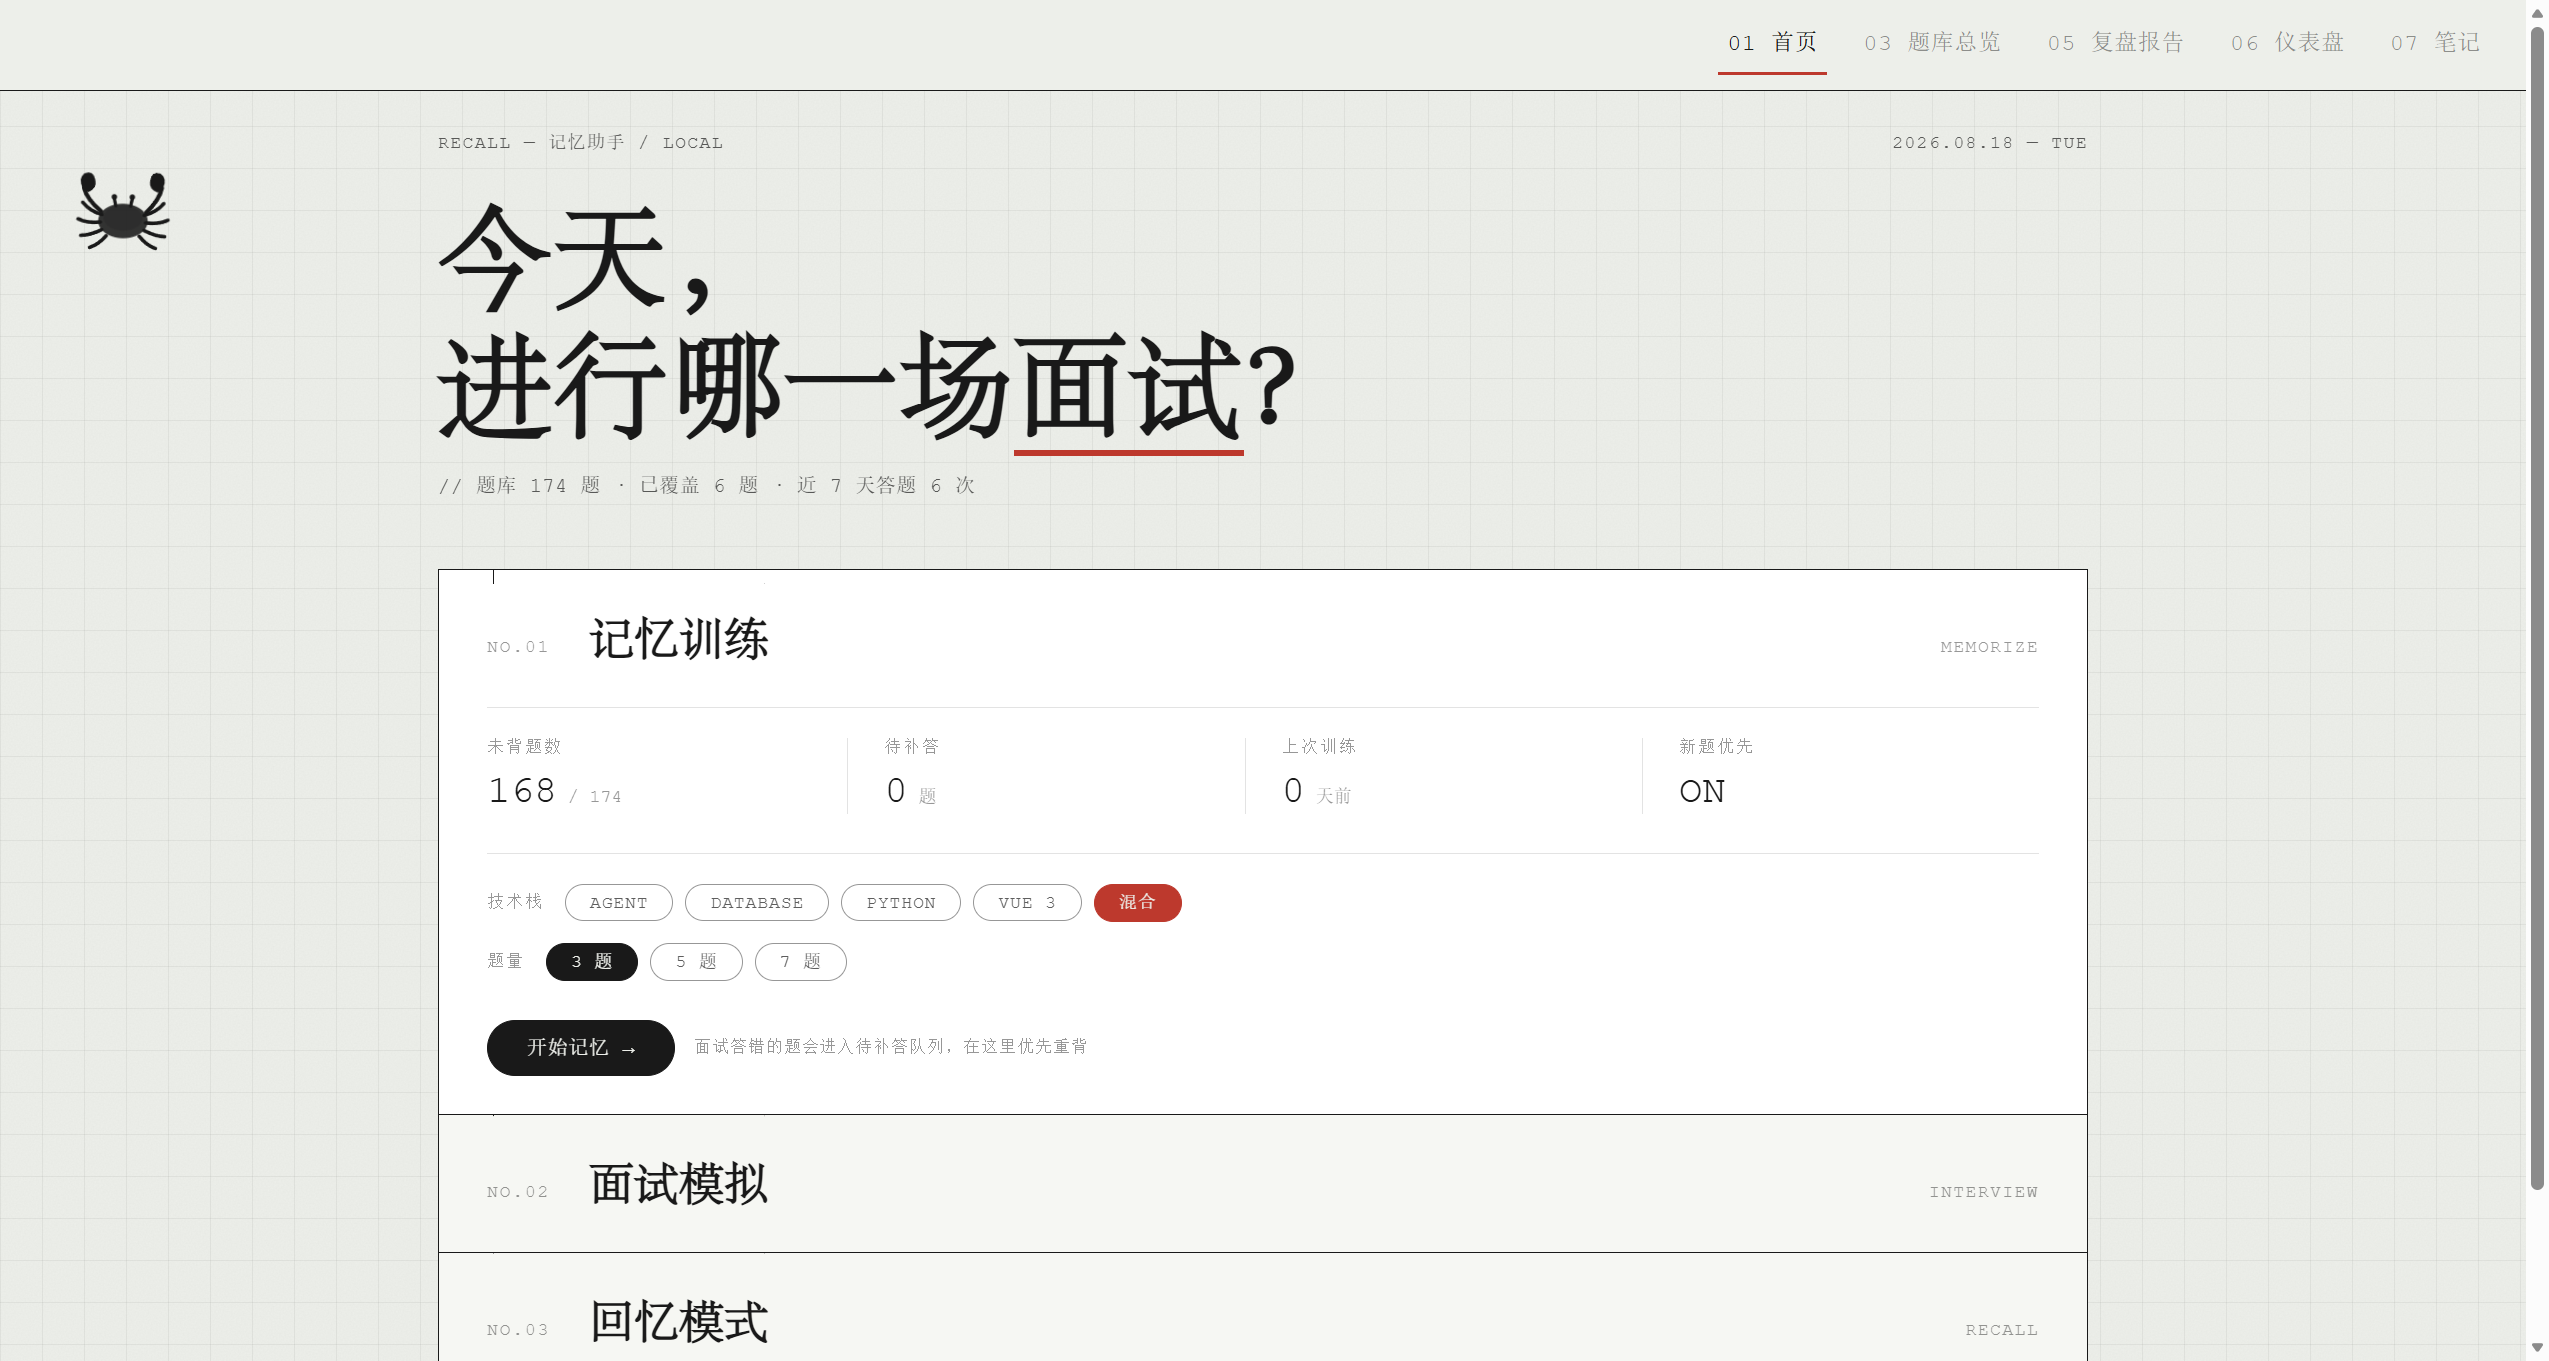
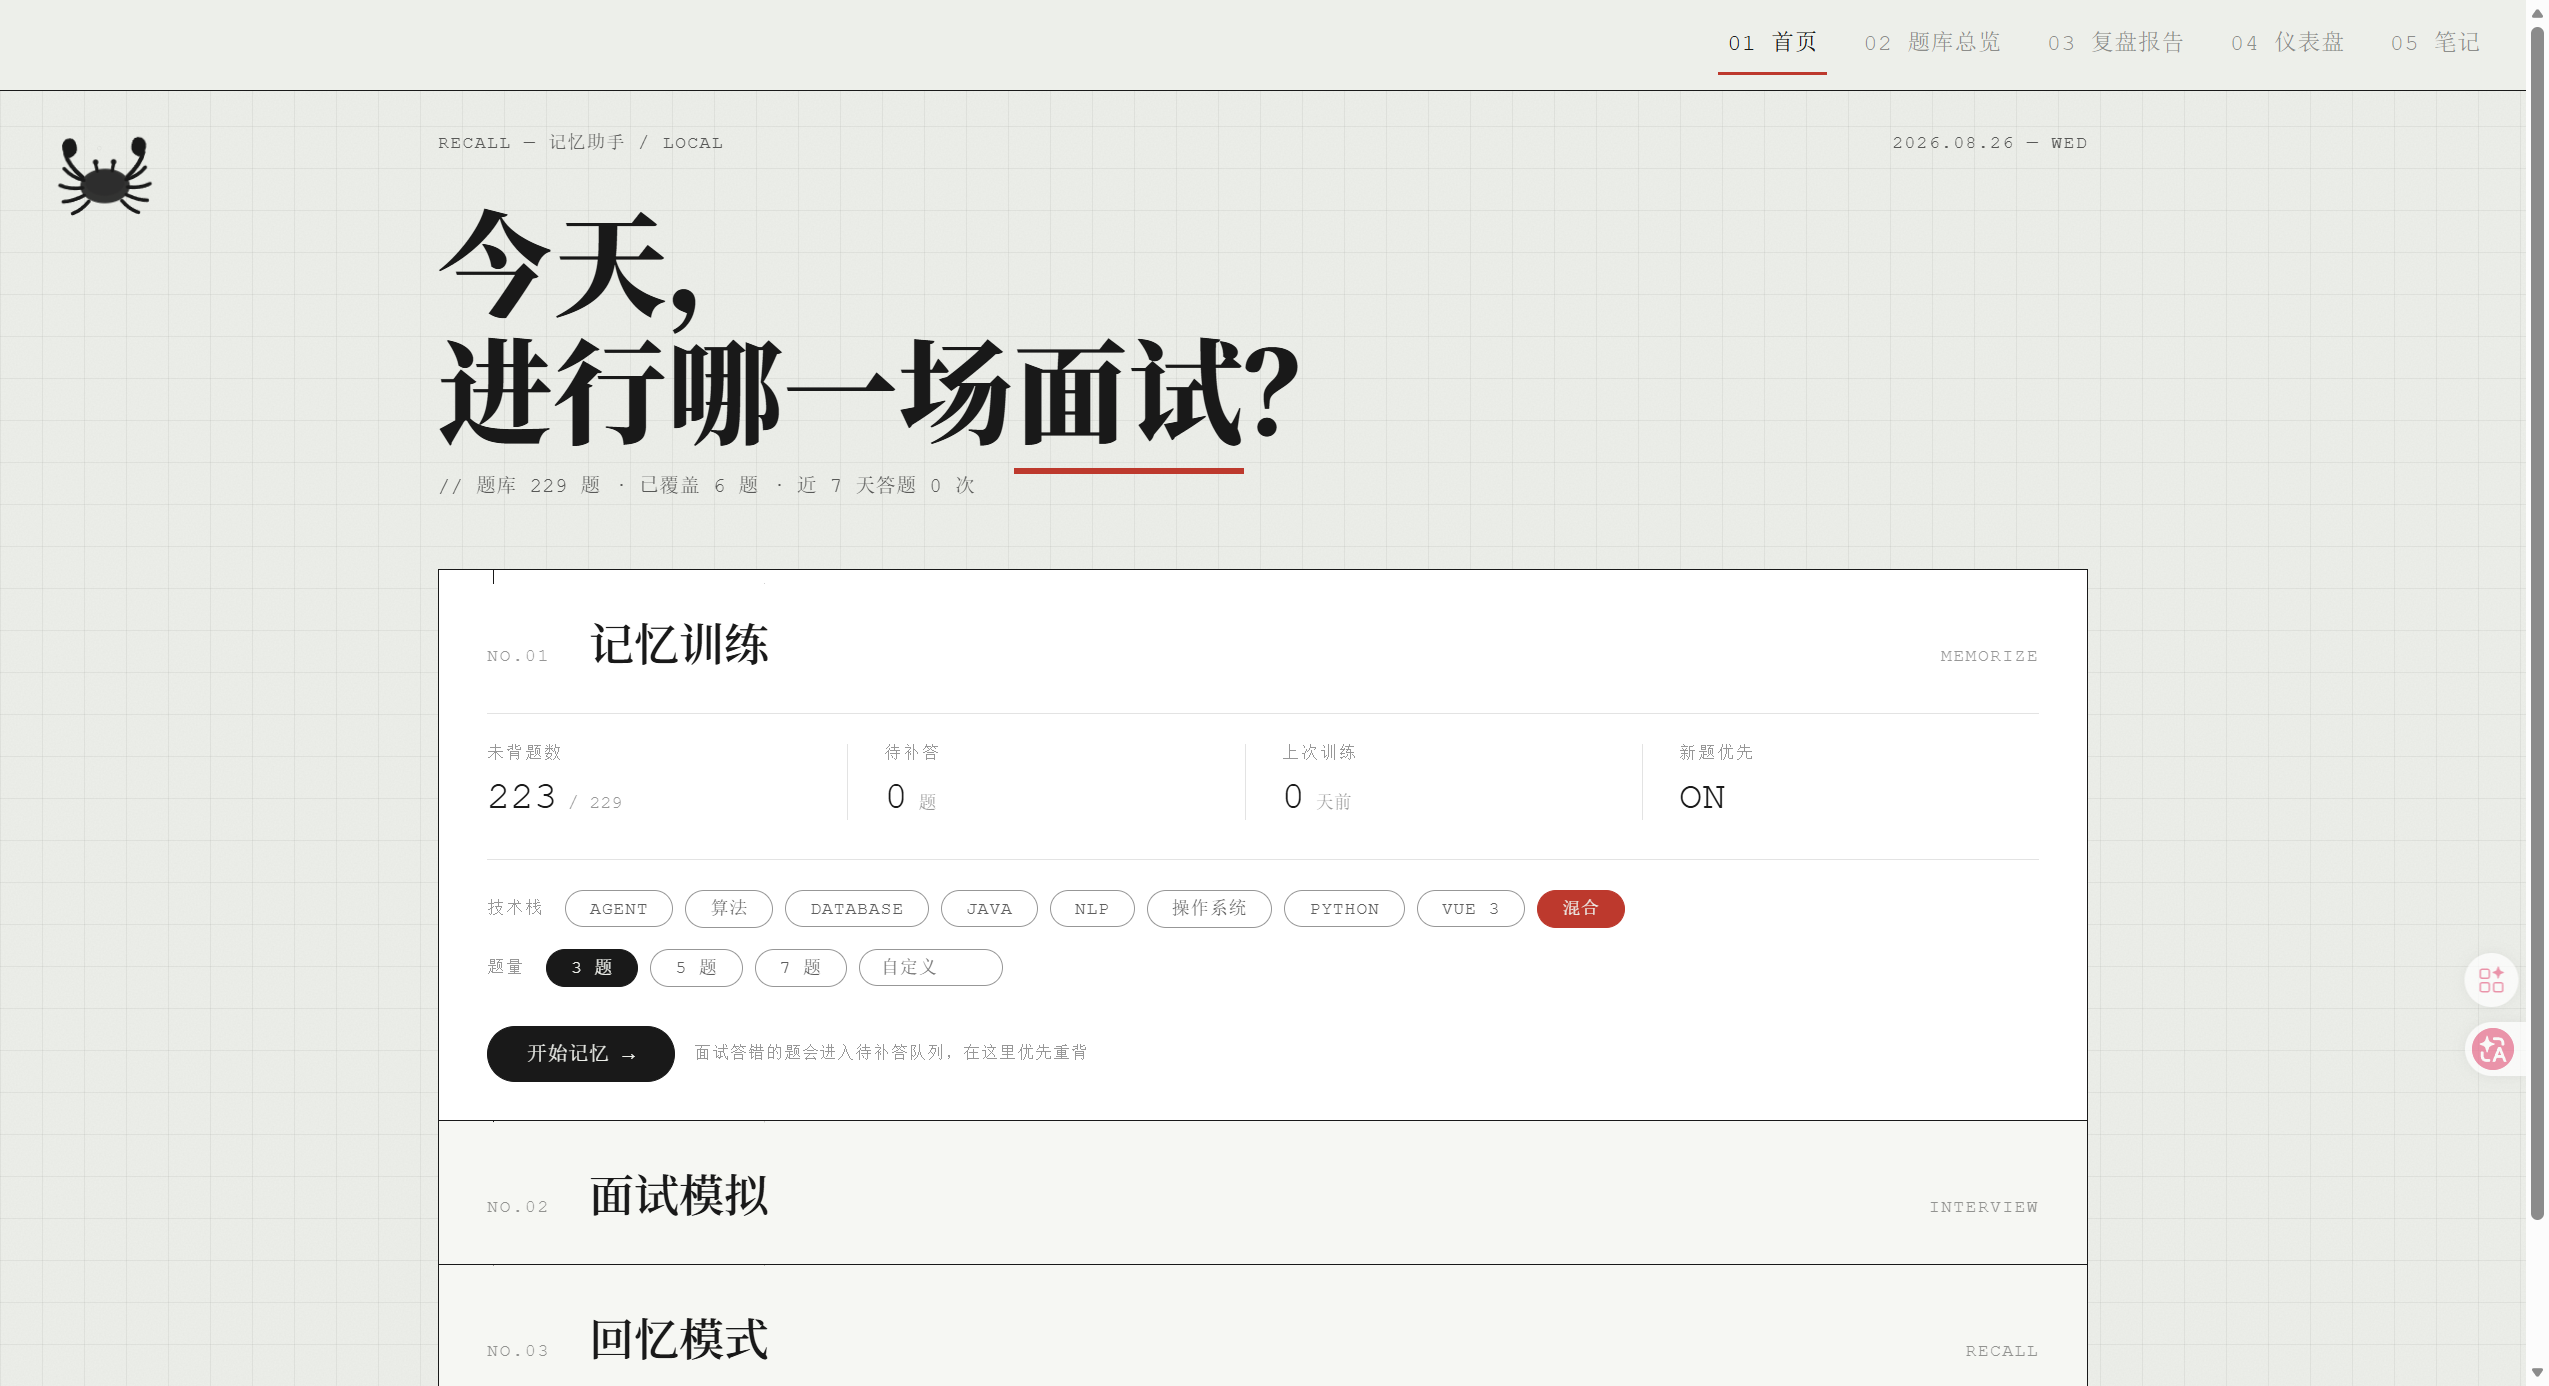
docs: 更新自述与截图；fix: 旧复盘报告记忆树按题干找回原题

diff --git a/backend/tests/test_orchestrator.py b/backend/tests/test_orchestrator.py
@@ -424,3 +424,26 @@ class TestMemoryTree:
         assert by_id[questions[0].id]["memory_tree"] == _SAMPLE_TREE
         assert by_id[questions[1].id]["memory_tree"] is None
         assert by_id[99999]["memory_tree"] is None  # 题已删除
+
+    def test_attach_memory_trees_stale_id_falls_back_to_stem(self, db, seed_questions):
+        """旧报告里的 question_id 因题库重导入而指向别的题：按题干快照找回原题，找不到则为 None。"""
+        from agents.orchestrator import attach_memory_trees
+
+        questions = seed_questions(2)
+        questions[0].memory_tree = _SAMPLE_TREE
+        db.add(questions[0])
+        db.commit()
+
+        report = {"per_question": [
+            # id 指向 questions[1]，但题干快照是 questions[0] 的：应按题干找回，挂上正确的树
+            {"question_id": questions[1].id, "stem": questions[0].stem},
+            # id 指向 questions[0]，题干也对得上：直接按 id 挂树
+            {"question_id": questions[0].id, "stem": questions[0].stem},
+            # 题干在题库里已不存在：不挂树，更不能挂错树
+            {"question_id": questions[0].id, "stem": "不存在的题干"},
+        ]}
+        attach_memory_trees(db, report)
+        items = report["per_question"]
+        assert items[0]["memory_tree"] == _SAMPLE_TREE
+        assert items[1]["memory_tree"] == _SAMPLE_TREE
+        assert items[2]["memory_tree"] is None

diff --git a/backend/agents/orchestrator.py b/backend/agents/orchestrator.py
@@ -502,9 +502,16 @@ class OrchestratorAgent(BaseAgent):
 
 
 def attach_memory_trees(db: DBSession, report: dict[str, Any]) -> None:
-    """展示层需要记忆树：按 question_id 现查附加（题已删除则为 None），不写回缓存快照。"""
+    """展示层需要记忆树：按 question_id 现查附加（题已删除则为 None），不写回缓存快照。
+
+    报告是会话上下文里的快照：若题库后来被重新导入导致 id 重排，
+    按 id 查到的可能已是另一道题。题干对不上时按题干快照找回原题，找不到就显示无树。
+    """
     for item in report.get("per_question", []):
         question = db.get(Question, item.get("question_id"))
+        stem = item.get("stem")
+        if question is not None and stem and question.stem != stem:
+            question = db.exec(select(Question).where(Question.stem == stem)).first()
         item["memory_tree"] = question.memory_tree if question else None
 
 
